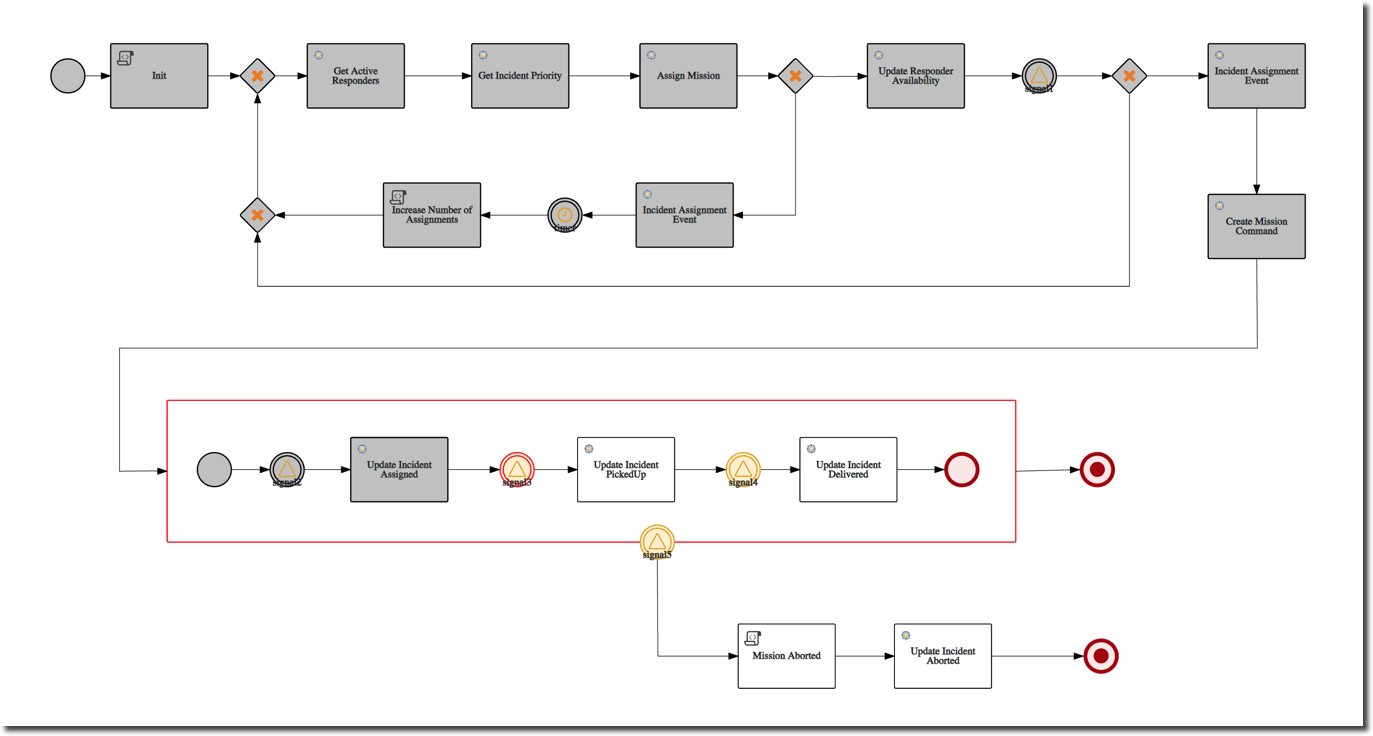
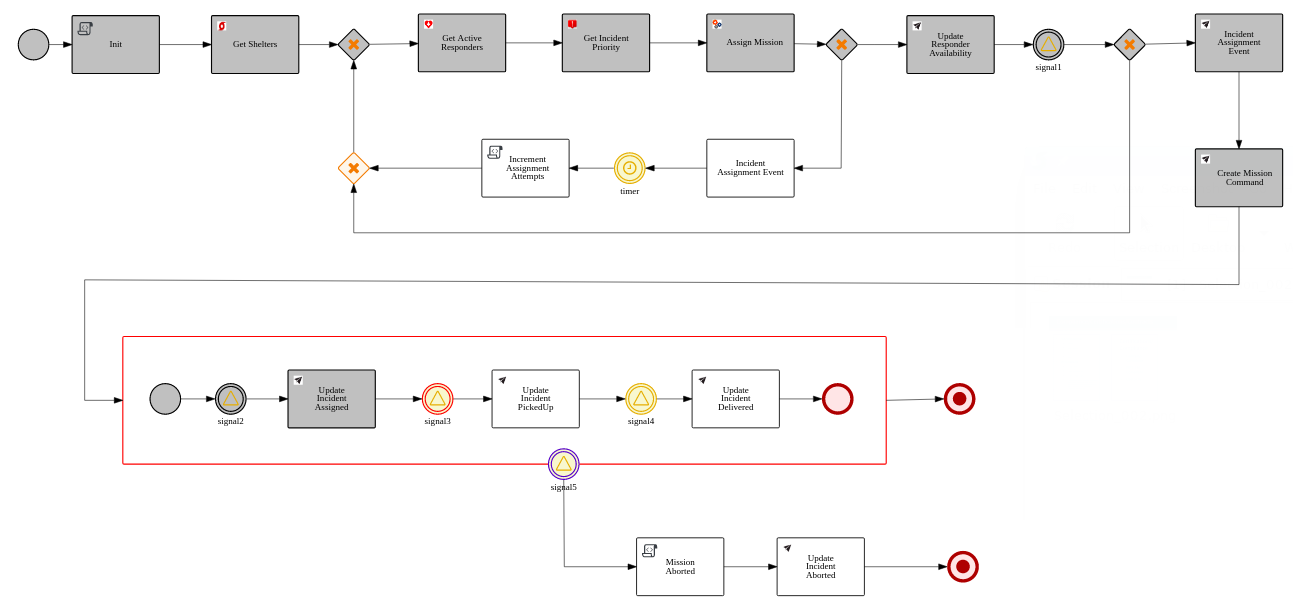
architecture.md:   Add ToC and elaborate on Process Service section

diff --git a/architecture.md b/architecture.md
@@ -1,22 +1,190 @@
----
-layout: page
-title: Architecture
-permalink: /architecture/
----
+- [1. Incident Service](#1-incident-service)
+- [2. Process Service](#2-process-service)
+  - [2.1. ER-Demo Business Process](#21-er-demo-business-process)
+  - [2.2. Responsibilities](#22-responsibilities)
+  - [2.3. Interaction with other components](#23-interaction-with-other-components)
+  - [2.4. Assign Mission rules](#24-assign-mission-rules)
+  - [2.5. Architecture](#25-architecture)
+- [3. Incident Priority Service](#3-incident-priority-service)
+- [4. Responder Service](#4-responder-service)
+- [5. Disaster Service](#5-disaster-service)
+- [6. Mission Service](#6-mission-service)
+- [7. Emergency Web Console](#7-emergency-web-console)
+- [8. Demo Simulators](#8-demo-simulators)
+  - [8.1. Responder Simulator](#81-responder-simulator)
+  - [8.2. Disaster Simulator](#82-disaster-simulator)
 
-In this application, you’ll notice multiple runtimes and frameworks in play, starting from Node, Vert.x to AMQ Streams (Kafka), prometheus and much more..  
-The idea is to showcase how a polyglot system can be architected. Obviously this is not the only way to create a distributed and hybrid microservices architecture. However it should provide a true hybrid cloud solution, with IT infrastructure that provides consistency, safety, repeatability, reusability, and portability while still helping development teams move fast. The application is based on true polyglot development and it is agile, secure and scalable at every level in the stack.
+The Emergency Response Demo application consists of multiple runtimes and frameworks: Quarkus, Node, Vert.x, JBoss Data Grid, AMQ Streams (Kafka on OpenShift), Prometheus and much more.
 
-Below is a diagram of the application architecture.
+Below is a diagram of its application architecture:
 
 ![application architecture](/images/application-architecture.png)
 
-# Application Components
 
-The following application components work together to provide the core
-implementation for the demo solution.
+The following provides details of each of the core application components of the demo application.
 
-## Mission Service
+# 1. Incident Service
+
+  - Runtime: Spring Boot
+
+  - Application Services Products / Components: 
+    - Red Hat AMQ-Streams
+
+  - Other Components: Postgres DB
+  - Source code: https://github.com/Emergency-Response-Demo/incident-service
+
+The Incident Service exposes an API for registering new Incidents and
+retrieving information about existing Incidents. An endpoint is also
+exposed for resetting Incident state (this is typically used by
+simulator services for managing and resetting the demo).
+
+When a new Incident is received, the Incident details are stored in the PostgreSQL
+database and a new message is sent out on the *topic-incident-event* Kafka
+Topic.
+
+The Service also listens on Kafka to the *topic-incident-command* topic
+for updates to Incidents and stores the latest Incident state in its PostgreSQL database.
+
+  - Send: topic-incident-event
+
+  - Listen: topic-incident-command
+
+To view the database schema that supports the *incident-service*, execute the following from the command line:
+
+`````
+$ ERDEMO_NS=user1-er-demo    # CHANGE ME (if needed)
+
+$ oc rsh `oc get pod -n $ERDEMO_NS | grep "^postgresql" | grep "Running" | awk '{print $1}'`
+
+$ psql emergency_response_demo
+
+emergency_response_demo=# \d reported_incident
+`````
+
+
+
+# 2. Process Service
+
+  - Runtime: Spring Boot
+
+  - Application Services Products:
+    
+      - Red Hat Process Automation Manager (PAM)
+      - Red Hat AMQ Streams
+    
+  - Other Components:
+    - *process-service-postgresql*
+    - *incident-process-kjar*
+    - *cajun-navy-rules*
+  - Source code:
+    - process-service:  https://github.com/Emergency-Response-Demo/process-service
+    - incident-process-kjar: https://github.com/Emergency-Response-Demo/incident-process-kjar
+    - cajun-navy-rules: https://github.com/Emergency-Response-Demo/cajun-navy-rules
+
+## 2.1. ER-Demo Business Process
+The Process Service manages the overall business process flow of the Emergency Response Demo scenario.  
+
+![application architecture](/images/incident-process.png)
+
+The business process is implemented using the *Business Process Management Notation* [(BPMN2) standard](https://www.omg.org/bpmn/).  BPMN2 is similar to other business process modelling technologies such as Visio.  However, unlike Visio, BPMN2 is a standard that is implemented as XML that can subsequently be parsed, validated, compiled and executed at runtime.
+
+The business process of the Emergency Response demo is best characterized as *Straight-Through*.
+It meets the criteria of a *straight-through* business process in that its flow is known upfront at design-time and at runtime its lifecycle starts and completes in an automated manner.  More elaboration of the different types of business processes can be found [here](/Business_Patterns.md). 
+
+This process diagram is version controlled in a project called: *incident-process-kjar* .
+It can be viewed in any number of BPMN2 editors such as: *Business Central* (from Red Hat Process Automation Manager), *[bpmn.new](https://bpmn.new/)*, or using the *[BPMN Editor](https://github.com/kiegroup/kogito-tooling/releases)* plugin for Microsoft vscode.
+The *incident-process-kjar* project is compiled and loaded as a dependency into the *process-service* project.
+
+## 2.2. Responsibilities 
+The process-service is responsible for the following:
+
+* **Microservice Orchestration**
+It orchestrates the interactions of the other services of the Emergency Response demo application to complete the end-to-end business scenario: simulation of volunteer responders evacuating communities members to shelter after a hurricane.
+
+* **Management of wait-states**
+The end-to-end lifecycle of the business scenario is *long-running*.  It can take seconds, minutes and even hours for some of the steps of the business scenario to complete.  When each of these business process steps are being executed, the business process instance is temporarily placed in a *wait-state*.  In particular, its state is persisted in the corresponding *process-service* PostgreSQL database.  When the step in the business process completes, a signal is sent to the process service to resume the process instance and continue to the next task in the business process.
+
+## 2.3. Interaction with other components
+The Process Service primarily consumes and produces Red Hat AMQ Streams messages.
+When a new Incident is reported on the *topic-incident-event* topic, the process Service kicks off a new BPM process to manage the new Incident.  When a Responder is shown as available (via the *topic-responder-event* topic), the BPM process is updated to reflect this. As the Mission progresses and additional messages are received on the *topic-mission-event* topic, the BPM process is updated to reflect the latest state.
+
+The Process Service sends out multiple types of messages on various Topics in response to the incident progressing through its lifecycle:
+
+  - **Send**: topic-mission-command, topic-responder-command, topic-incident-command, topic-incident-event
+
+  - **Receive**: topic-incident-event, topic-responder-event, topic-mission-event
+
+
+## 2.4. Assign Mission rules
+One of the *service tasks* in the *incident-process* BPMN2 process definition is called:  *Assign Mission*.  This service task is of type: *BusinessRuleTask*
+
+![Assign Mission](_site/images/../../images/assign_mission_task.png).
+
+When the process instance reaches this service task, it invokes the *technical rules* that are version controlled in the *cajun-navy-rules* project.  These *technical rules* are authored in the *Drools Rule Language* and loaded into the process-service.
+
+## 2.5. Architecture
+The *process engine* of Red Hat Process Automation Manager can be deployed and invoked in a variety of manners.
+For the purpose of the Emergency Response Demo application, the *process engine* is embedded directly in a SpringBoot microservice application.  The *process-engine* is invoked asynchronously by sending it messages on various AMQ Streams topics.
+
+The AMQ Streams message producers are implemented as custom *work-item-handlers*.
+A *workItem* extends the capabilities of the process engine.
+
+Incidentally, this architecture approach most closely resembles the architecture approach implemented in Red Hat's upcoming *cloud-native business automation* project:  [kogito](https://kogito.kie.org/).  With Kogito, the process engine will likely run in Quarkus (instead of SpringBoot) and many of the work-item-handlers needed to inter-operate with AMQ Streams will be auto-generated.
+
+# 3. Incident Priority Service
+
+  - Runtime: Vert.x
+
+  - Middleware Products / Components:
+    - Red Hat Decision Manager
+    - AMQ Streams
+
+  - Source Code: https://github.com/Emergency-Response-Demo/incident-priority-service
+
+When the process service is unable to assign a responder to an incident, an IncidentAssignmentEvent is sent to an AMQ Streams broker.
+The incident priority service consumes these events and raises the priority for each failed assignment.
+Uses an embedded rules engine to calculate the priority of an incident and the average priority.
+The rules engine uses a stateful rules session.
+
+# 4. Responder Service
+
+  - Runtime: Spring Boot
+
+  - Middleware Products / Components: AMQ-Streams
+
+  - Other Components: Postgres DB
+
+The Responder Service exposes an API for managing Responders, including
+registering new Responders, retrieving information about all available
+responders and retrieving information about specific responders.
+Endpoints are also exposed for removing responders and resetting
+responder state (these are typically used by simulator services for
+managing and resetting the demo).
+
+When a new Responder is registered, the Responder details are stored in
+the database.
+
+The Service also listens on Kafka to the topic test-topic for updates to
+Responders and stores the latest Responder state in the Database. If the
+update to the responder includes an Incident Id (i.e. if the responder
+has been assigned to work on an Incident) the services also sends a new
+Kafka message to the topic test-topic.
+
+  - Send: test-topic
+
+  - Listen: test-topic
+
+# 5. Disaster Service
+
+  - Runtime: Vert.x
+  
+  - Middleware Components: JDG
+
+The Disaster Service exposes an API for managing the disaster's metadata, including: the coordinates and magnification for the center of the disaster; the list of inclusion zones (geopolygons in which incidents and responders should spawn); and the list of shelters and their locations.
+
+Tracking this data dynamically allows the incident commander to change the location of the disaster to match the geography in which the demo is being performed.
+
+# 6. Mission Service
 
   - Runtime: Vert.x
 
@@ -48,116 +216,7 @@ Responder is available for a new mission.
 
   - Receive: topic-mission-command, topic-responder-location-update
 
-## Process Service
-
-  - Runtime: Spring Boot
-
-  - Middleware Components:
-    
-      - Process Automation Manager (PAM)
-    
-  - Other Components: Postgres DB
-
-The Process Service is responsible for managing the overall process flow
-of the system. The Process Service operates purely on Kafka messages and
-does not expose any HTTP API - although it does invoke HTTP APIs in the
-Responder and Incident Priority Services.
-
-When a new Incident is reported on the topic-incident-event Topic, the
-process Service kicks off a new BPM process to manage the new Incident.
-When a Responder is shown as available (via the topic-responder-event
-Topic), the BPM process is updated to reflect this. As the Mission
-progresses and additional messages are received on the
-topic-mission-event Topic, the BPM process is updated to reflect the
-latest state.
-
-The Process Service sends out multiple types of messages on various
-Topics in response to the Incident progressing through the Business
-Process.
-
-  - Send: topic-mission-command, topic-responder-command,
-    topic-incident-command, topic-incident-event
-
-  - Receive: topic-incident-event, topic-responder-event,
-    topic-mission-event
-
-## Incident Service
-
-  - Runtime: Spring Boot
-
-  - Middleware Products / Components: AMQ-Streams
-
-  - Other Components: Postgres DB
-
-The Incident Service exposes an API for registering new Incidents and
-retrieving information about existing Incidents. An endpoint is also
-exposed for resetting Incident state (this is typically used by
-simulator services for managing and resetting the demo).
-
-When a new Incident is received, the Incident details are stored in the
-database and a new message is sent out on the topic-incident-event Kafka
-Topic.
-
-The Service also listens on Kafka to the topic topic-incident-command
-for updates to Incidents and stores the latest Incident state in the
-Database.
-
-  - Send: topic-incident-event
-
-  - Listen: topic-incident-command
-
-## Incident Priority Service
-
-  - Runtime: Vert.x
-
-  - Middleware Products / Components: AMQ-Streams
-
-  - Other Components: Decision Manager
-
-When the process service is unable to assign a responder to an incident, an IncidentAssignmentEvent is sent to an AMQ Streams broker.
-The incident priority service consumes these events and raises the priority for each failed assignment.
-Uses an embedded rules engine to calculate the priority of an incident and the average priority.
-The rules engine uses a stateful rules session.
-
-## Responder Service
-
-  - Runtime: Spring Boot
-
-  - Middleware Products / Components: AMQ-Streams
-
-  - Other Components: Postgres DB
-
-The Responder Service exposes an API for managing Responders, including
-registering new Responders, retrieving information about all available
-responders and retrieving information about specific responders.
-Endpoints are also exposed for removing responders and resetting
-responder state (these are typically used by simulator services for
-managing and resetting the demo).
-
-When a new Responder is registered, the Responder details are stored in
-the database.
-
-The Service also listens on Kafka to the topic test-topic for updates to
-Responders and stores the latest Responder state in the Database. If the
-update to the responder includes an Incident Id (i.e. if the responder
-has been assigned to work on an Incident) the services also sends a new
-Kafka message to the topic test-topic.
-
-  - Send: test-topic
-
-  - Listen: test-topic
-
-## Disaster Service
-
-  - Runtime: Vert.x
-  
-  - Middleware Components: JDG
-
-The Disaster Service exposes an API for managing the disaster's metadata, including: the coordinates and magnification for the center of the disaster; the list of inclusion zones (geopolygons in which incidents and responders should spawn); and the list of shelters and their locations.
-
-Tracking this data dynamically allows the incident commander to change the location of the disaster to match the geography in which the demo is being performed.
-
-## Emergency Web Console
+# 7. Emergency Web Console
 
   - Runtime: Node.js, Angular
 
@@ -179,14 +238,14 @@ The console communicates with several of the back end services
 (Incident, Mission & Responder) to display real time data via
 WebSockets.
 
-# Demo Simulators
+# 8. Demo Simulators
 
 The following components are used to control the demo and simulate
 events which are needed for the demo, but which can not be sourced from
 / represented in the real world (i.e. Incidents, Responder Bots,
 Responder movement around the map).
 
-## Responder Simulator
+## 8.1. Responder Simulator
 
   - Runtime: Vert.x
 
@@ -211,7 +270,7 @@ on the topic-responder-location-update Topic.
 
   - Receive: topic-responder-location-update
 
-## Disaster Simulator
+## 8.2. Disaster Simulator
 
   - Runtime: Vert.x
 
